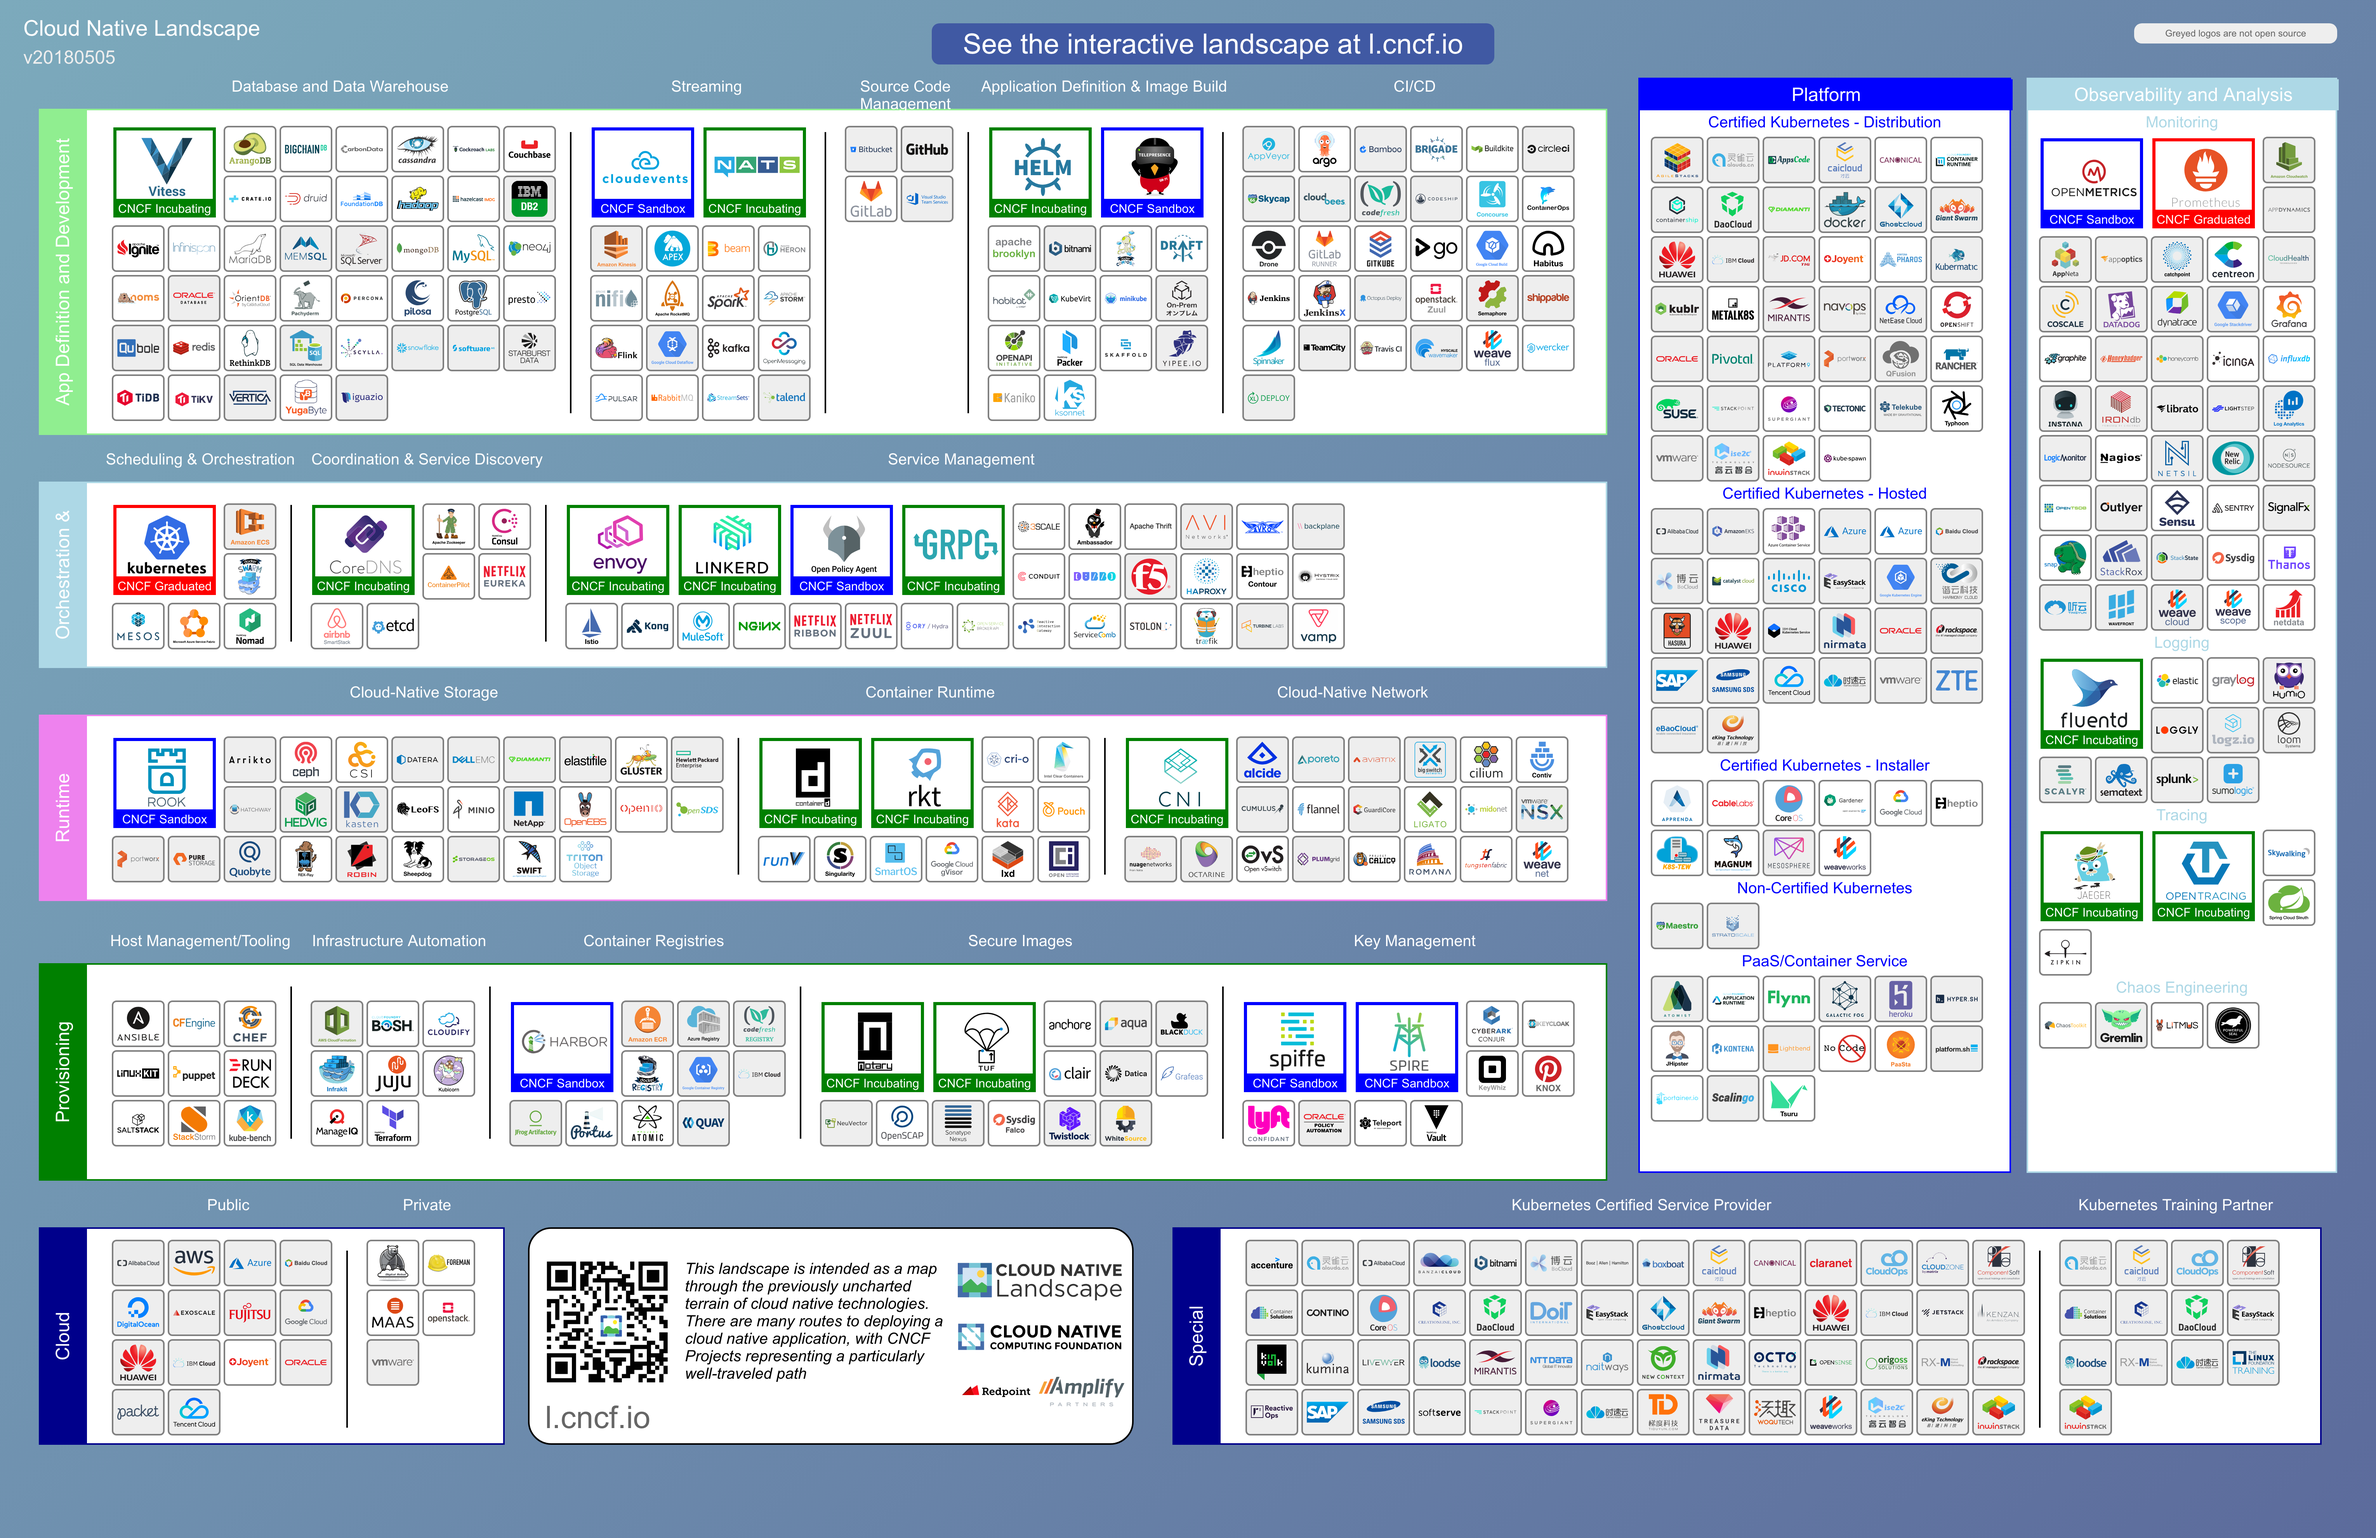
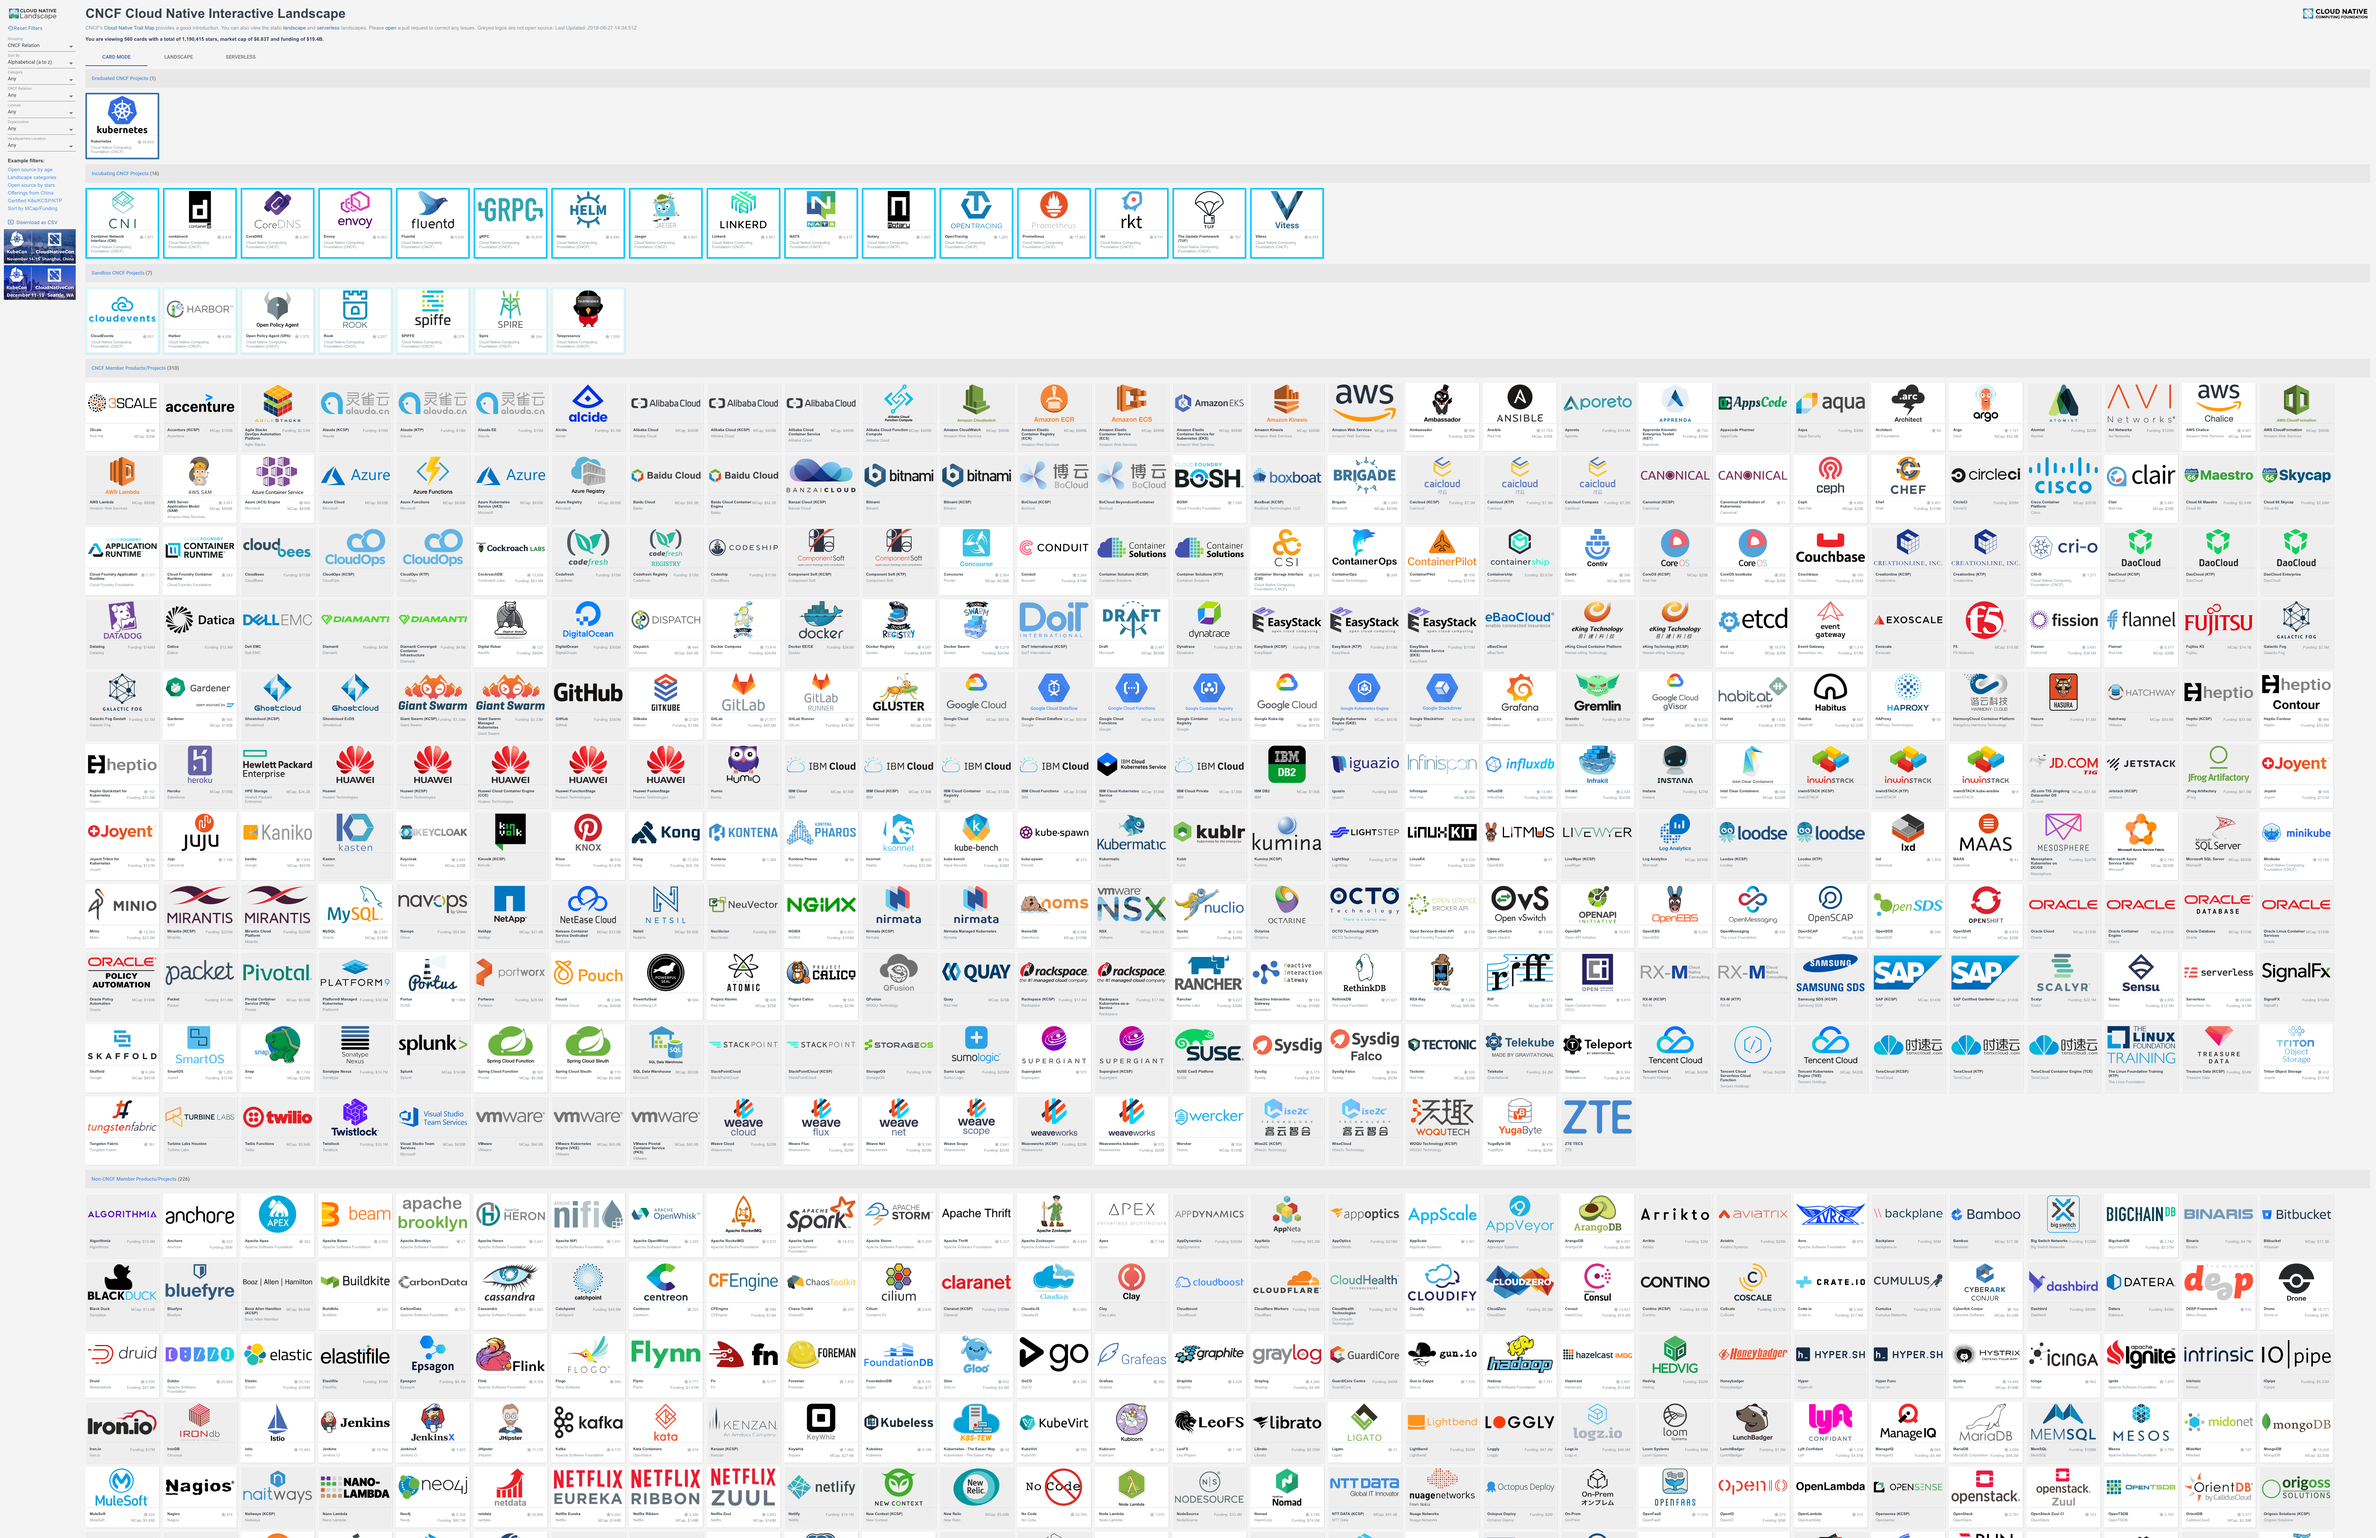
fixes for rendering

diff --git a/tools/renderServerless.js b/tools/renderServerless.js
@@ -1,9 +1,11 @@
+import Promise from 'bluebird';
 async function main() {
   const puppeteer = require('puppeteer');
   const browser = await puppeteer.launch({args: ['--no-sandbox', '--disable-setuid-sandbox']});
   const page = await browser.newPage();
   page.setViewport({ width: 3450, height: 2100 })
   await page.goto('http://localhost:4000/serverless');
+  await Promise.delay(10000);
   await page.screenshot({ path: 'src/images/serverless.png', fullPage: false });
   await browser.close();
 }

diff --git a/tools/renderLandscape.js b/tools/renderLandscape.js
@@ -1,9 +1,11 @@
+import Promise from 'bluebird';
 async function main() {
   const puppeteer = require('puppeteer');
   const browser = await puppeteer.launch({args: ['--no-sandbox', '--disable-setuid-sandbox']});
   const page = await browser.newPage();
   page.setViewport({ width: 6120, height: 3960 })
   await page.goto('http://localhost:4000/landscape');
+  await Promise.delay(10000);
   await page.screenshot({ path: 'src/images/landscape.png', fullPage: false });
   await browser.close();
 }

diff --git a/tools/ciServer.js b/tools/ciServer.js
@@ -9,6 +9,7 @@ import {chalkProcessing} from './chalkConfig';
 
 console.log(chalkProcessing('running a dist server on http://localhost:4000 ...'));
 
+require('child_process').execSync('kill $(lsof -t -i:4000 -sTCP:LISTEN) || true');
 // Run Browsersync
 const result = browserSync({
   port: 4000,
